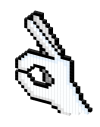
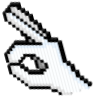
test-114
tried to fix image sizes, went back to old. fix cursor

diff --git a/index.html b/index.html
@@ -165,14 +165,14 @@
         <p>*Made with <a href="https://twitter.com/SumoApps">@SumoApps</a></p>
         <hr style="height:11px;border-width:0;color:#ed85a6ff;background-color:#ed85a6ff;">
         <h2 id="AIGallery">AI Art Gallery</h2>
-            <img src="images/aig-01.png" style="max-width: 400px;">
-            <img src="images/aig-02.png" style="max-width: 400px;">
-            <img src="images/aig-03.png" style="max-width: 400px;">
-            <img src="images/aig-04.png" style="max-width: 400px;">
-            <img src="images/aig-05.png" style="max-width: 400px;">
-            <img src="images/aig-06.png" style="max-width: 400px;">
-            <img src="images/aig-07.png" style="max-width: 400px;">
-            <img src="images/aig-08.png" style="max-width: 400px;">        
+            <img src="images/aig-01.png" style="max-width: 360px;">
+            <img src="images/aig-02.png" style="max-width: 360px;">
+            <img src="images/aig-03.png" style="max-width: 360px;">
+            <img src="images/aig-04.png" style="max-width: 360px;">
+            <img src="images/aig-05.png" style="max-width: 360px;">
+            <img src="images/aig-06.png" style="max-width: 360px;">
+            <img src="images/aig-07.png" style="max-width: 360px;">
+            <img src="images/aig-08.png" style="max-width: 360px;">        
         <br>
         <hr style="height:11px;border-width:0;color:#ed85a6ff;background-color:#318bcfff;">
         <h2 id="FunnyPictures">Funny Pictures And Videos</h2>
@@ -195,26 +195,26 @@
                     allow="accelerometer; autoplay; clipboard-write; encrypted-media; gyroscope; picture-in-picture"
                     allowfullscreen></iframe>
             </div>
-            <textarea style="width:400px; height:300px; border-color: #ed85a6ff; border-width: 1em;">
+            <textarea style="width:360px; height:300px; border-color: #ed85a6ff; border-width: 1em;">
 公平地说，您必须具有高智商才能理解 BITCOINAI。 幽默非常微妙，如果没有扎实的理论物理学知识，大多数代币经济学都会让普通投资者望而却步。 例如，这种观点完全符合现代主义，这是一种大量借鉴民粹主义文学的哲学。 投资者了解这些东西； 他们有能力真正欣赏人工智能的深度，并意识到他们不仅仅是在赚钱——他们正在深入了解自己的生活。
                 </textarea>
-            <img src="images/amy-ai-inu-full-transparent.png" style="max-width: 400px;">
-            <textarea style="width:400px; height:300px; border-color: #ed85a6ff; border-width: 1em;">
+            <img src="images/amy-ai-inu-full-transparent.png" style="max-width: 360px;">
+            <textarea style="width:360px; height:300px; border-color: #ed85a6ff; border-width: 1em;">
 When this coin eventually pumps it will mark the start of a long fruitful bull market. Mark my words when HarryPotterObamaAmyAIInu (Ticker:BITCOINAI) rises every single other market in the world will follow. People will be buying new homes. Bitcoin will be trading for $60,000. The s&p500 will explode. Wall street will burn with excitement. The faithful will be rewarded in this life and the next.
                 </textarea>
-            <img src="images/broom-2.png" style="max-width: 400px;">
-            <img src="images/sonic-beast-mark.png" style="max-width: 400px;">
-            <textarea style="width:400px; height:300px; border-color: #ed85a6ff; border-width: 1em;">
+            <img src="images/broom-2.png" style="max-width: 360px;">
+            <img src="images/sonic-beast-mark.png" style="max-width: 360px;">
+            <textarea style="width:360px; height:300px; border-color: #ed85a6ff; border-width: 1em;">
 Harry Potter solves the centralization problem (takes down corrupt schools and governments)
 >Obama solves the Oracle problem (can change the future through hope and change)
 >Amy solves the slow transaction problem (gotta go fast)
                 </textarea>            
-            <img src="images/space-channel-dab.png" style="max-width: 400px;">
-            <img src="images/obama-cube-worship.jpg" style="max-width: 400px;">
-            <img src="images/amy-bored.gif" style="max-width: 400px;">
-            <img src="images/bitcoinai-hope.png" style="max-width: 400px;">
-            <img src="images/tails-advice.jpg" style="max-width: 400px;">
-            <img src="images/emoji-pepe.png" style="max-width: 400px;">           
+            <img src="images/space-channel-dab.png" style="max-width: 360px;">
+            <img src="images/obama-cube-worship.jpg" style="max-width: 360px;">
+            <img src="images/amy-bored.gif" style="max-width: 360px;">
+            <img src="images/bitcoinai-hope.png" style="max-width: 360px;">
+            <img src="images/tails-advice.jpg" style="max-width: 360px;">
+            <img src="images/emoji-pepe.png" style="max-width: 360px;">           
             </p>
         </div>
         <hr style="height:11px;border-width:0;color:#ed85a6ff;background-color:#ed85a6ff;">
